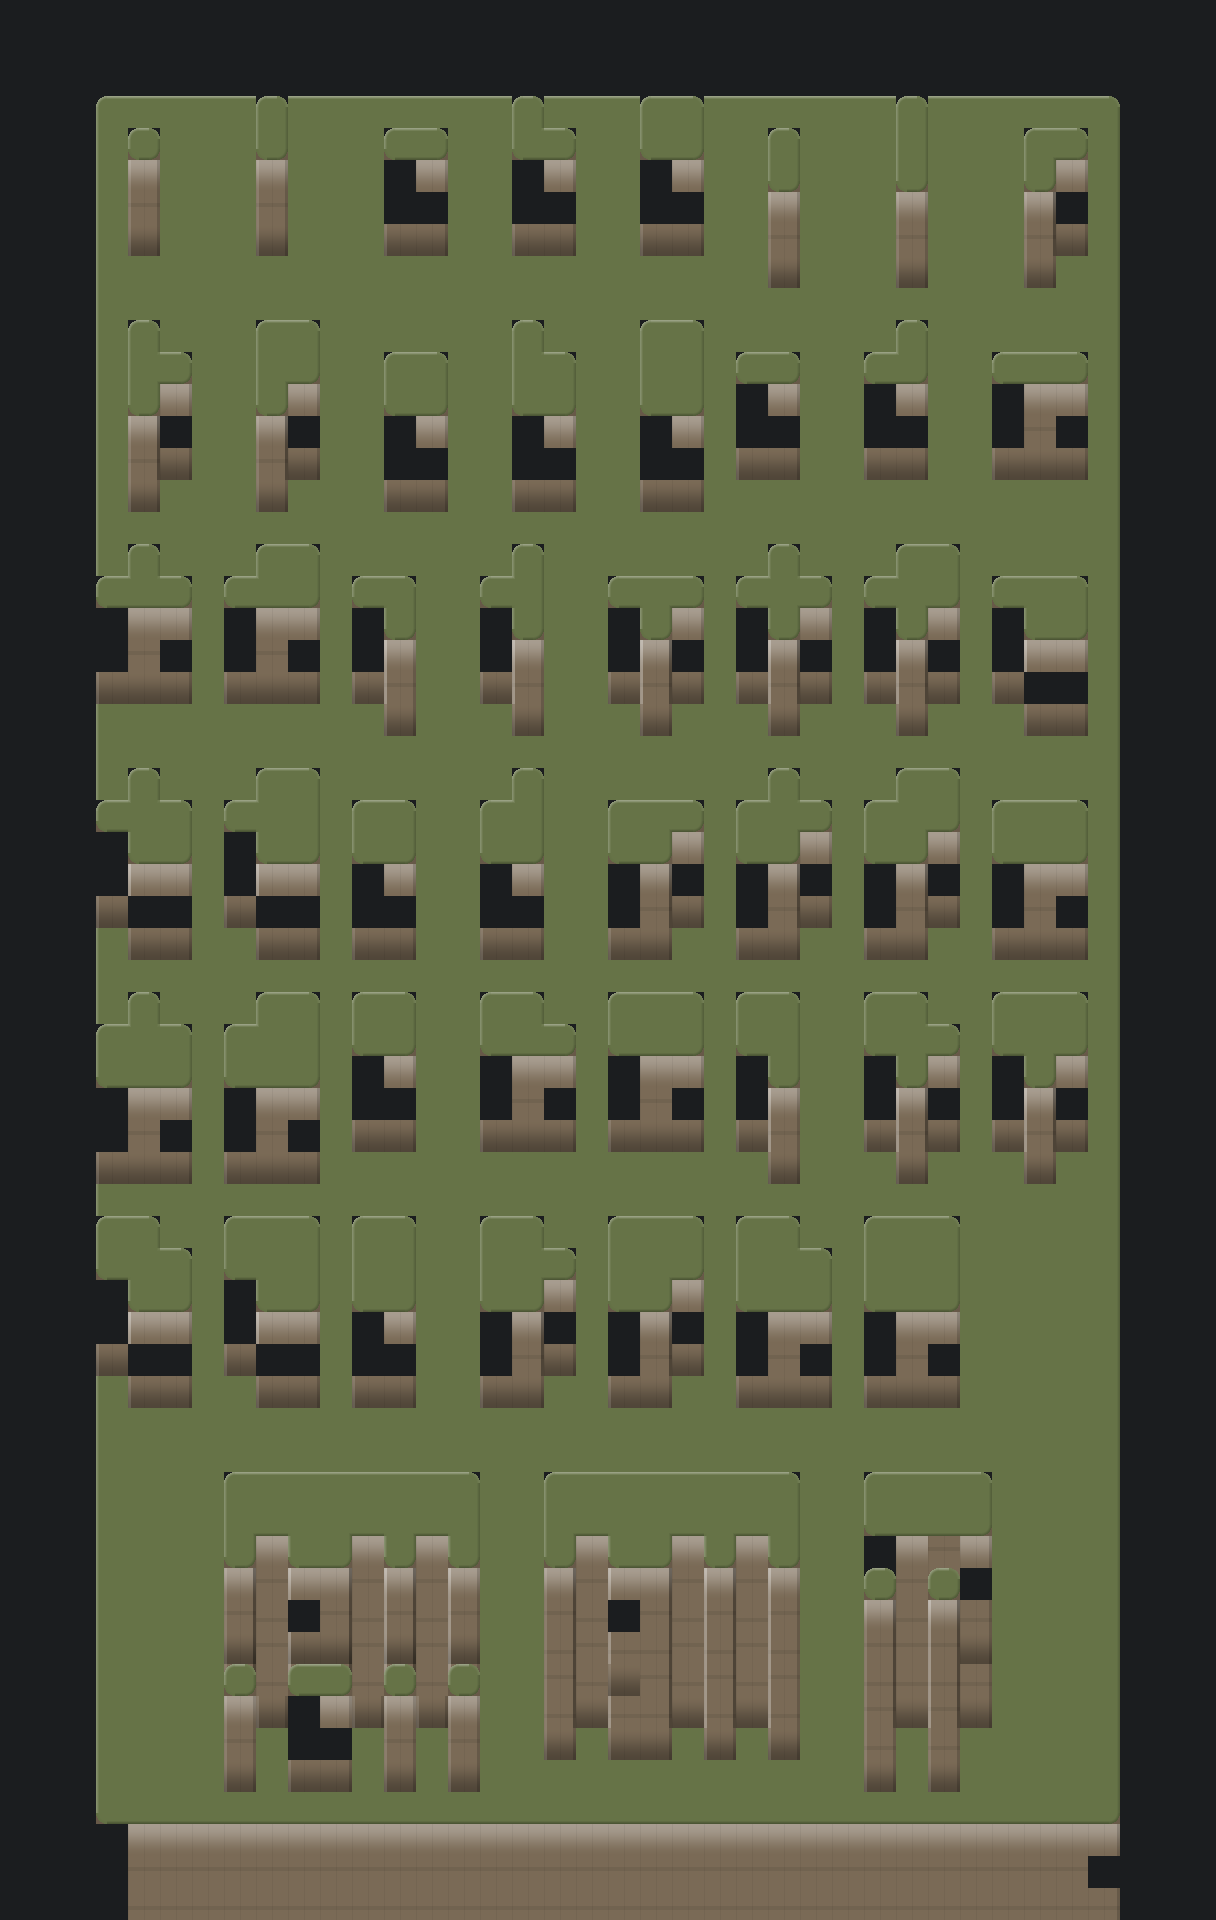
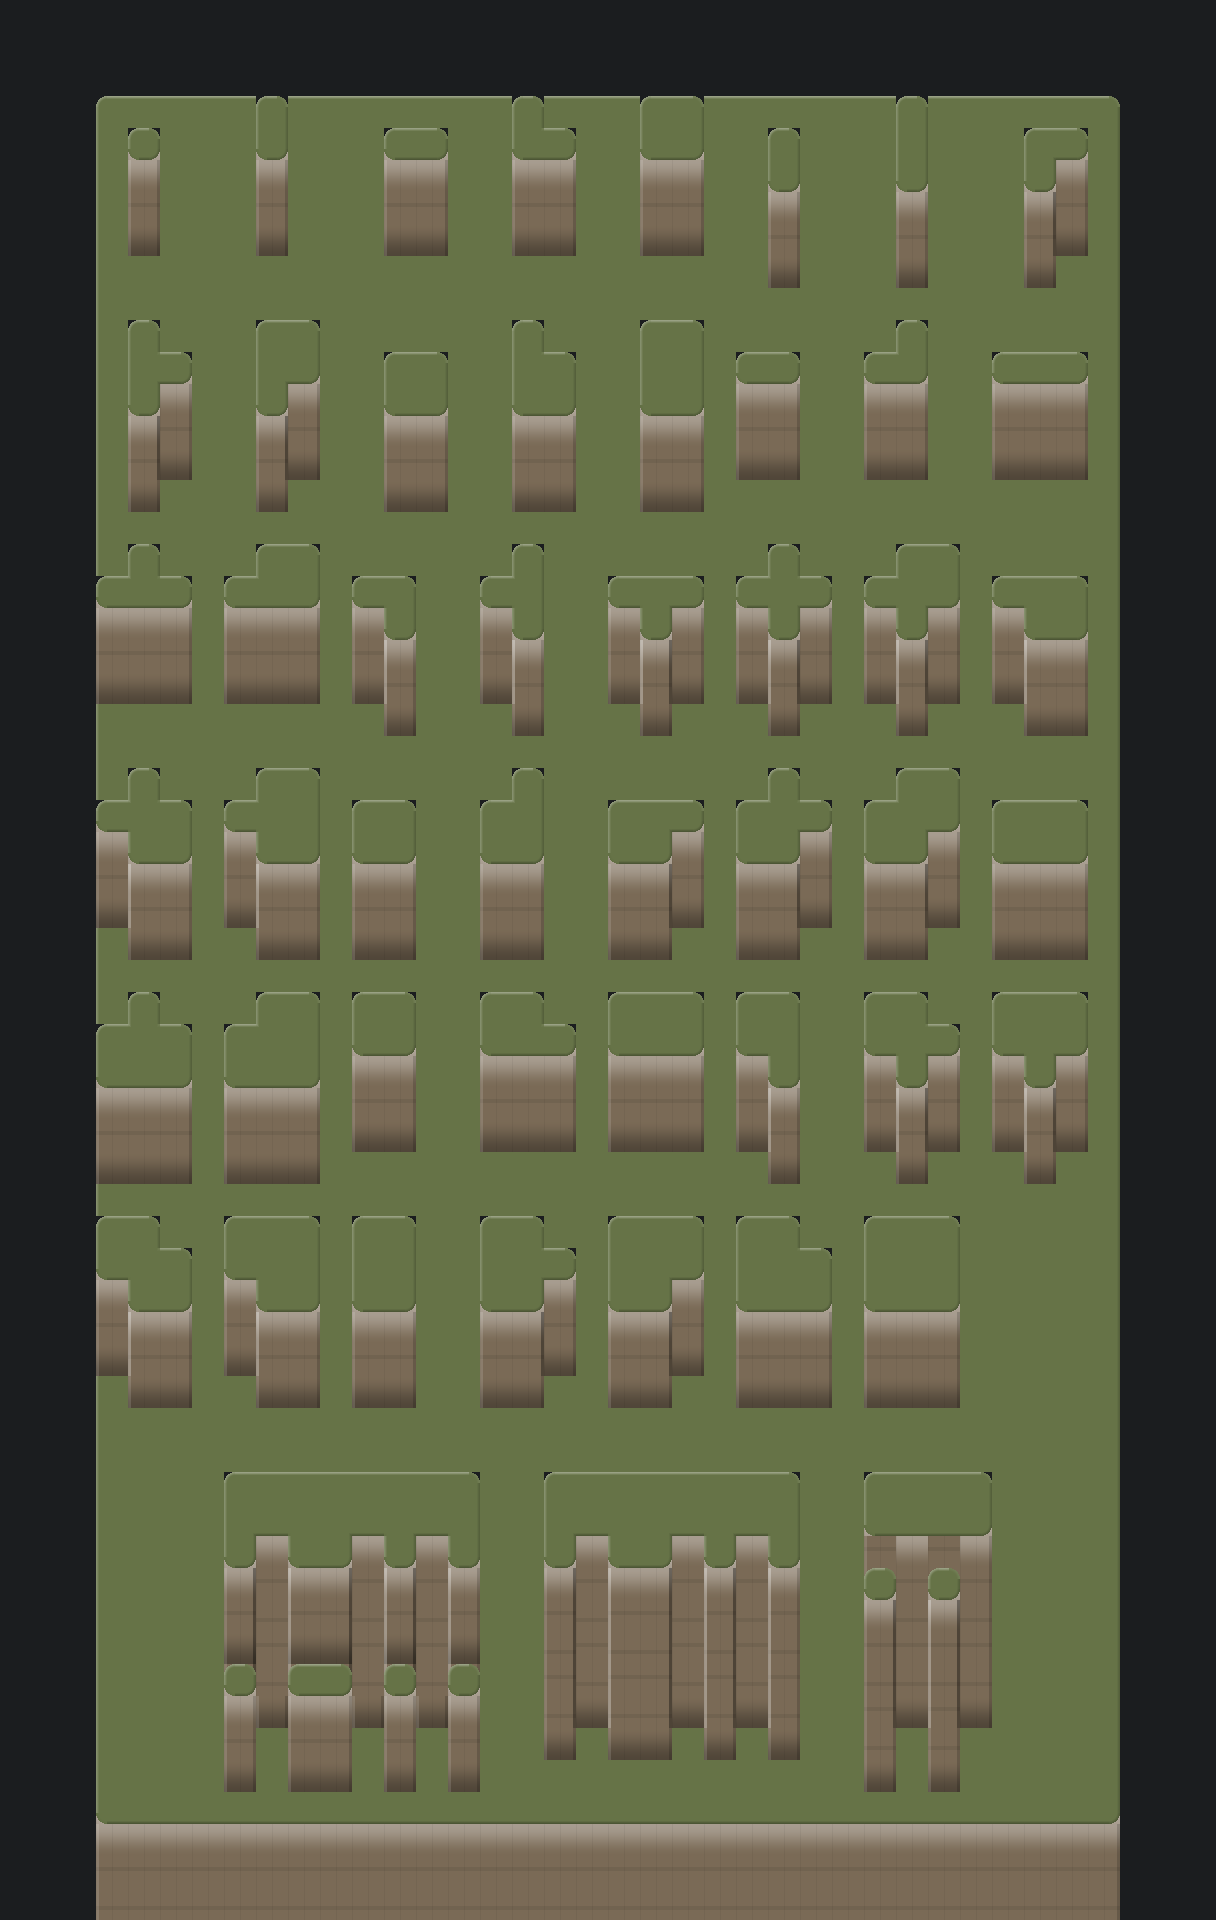
L'epaule prolonge le chapiteau, elle ne le chapeaute plus
Question artistique posee par l'utilisateur, et il avait raison : le
chanfrein d'aplat -- « volontairement distinct du corps » -- se lisait
comme une encoche sombre coincee entre l'herbe et le chapiteau eclaire,
pas comme de la roche qui tourne. L'epaule est desormais le HAUT DU
CHAPITEAU etire dans le coin : meme teinte exactement a la frontiere,
continuite verticale avec la rangee d'en dessous, un peu plus de jour en
montant -- l'arete de la roche qui tourne vers le ciel -- et la meme
striure, calee sur les memes colonnes, pour que le grain de la face
traverse le coin sans couture.

Ce qui ne peut pas se prolonger : les bandes de flanc. Le pan de la robe
d'en dessous n'est pas constant vu de la tuile de surface, et on ne
peint dans la tuile que ce qui est constant -- c'est la regle meme de
l'epaule. Le leger ressaut qui peut en rester au pied du coin est le
prix, et il est petit.

Le fil de fer ne bouge pas : il etait deja continu, la roche du trait.
La constante SHOULDER disparait -- l'epaule se calcule, elle n'est plus
un aplat.

Version 6.0.1, correctif de dessin. Illustration, planches d'essai et
scene regenerees. Commit volontairement restreint a ces fichiers : une
autre session travaille en parallele sur core/, ui/ et tests/.

430 verifications, 0 echec.

Claude-Session: https://claude.ai/code/session_018tvN4TQBR3sh7MsSTnFB1b

diff --git a/CLAUDE.md b/CLAUDE.md
@@ -979,14 +979,23 @@ Chaque entrée note le choix et sa raison, pour ne pas le rejouer plus tard.
   `level_at` — or **une case de robe EST une case de plaine sur la carte** : une falaise ne
   se voyait donc jamais comme « du haut ». Elle se dresse pourtant au-dessus du sol.
 
-- **L'épaule : le coin de roche sous la lèvre sud.** Les coins sortants sont découpés, et
-  sous un bord sud il y a **toujours** une falaise — la case montrait donc le fond à travers
-  la roche, dans le petit angle entre l'arrondi et le haut de la face. On le remplit d'un
-  aplat de pierre, volontairement distinct du corps juste en dessous : c'est le chanfrein du
-  rocher, pas la face.
+- **L'épaule : le coin de roche sous la lèvre sud — LA FALAISE QUI CONTINUE.** Les coins
+  sortants sont découpés, et sous un bord sud il y a **toujours** une falaise — la case
+  montrait donc le fond à travers la roche, dans le petit angle entre l'arrondi et le haut
+  de la face.
 
-  ⚠ **Et celui-là est légitime là où les ombres portées ne l'étaient pas** : il vit **dans**
-  la tuile de surface, donc une tuile exportée peut le porter.
+  ⚠ **Et l'épaule est légitime là où les ombres portées ne l'étaient pas** : il y a toujours
+  une falaise dessous, donc c'est constant, donc ça vit **dans** la tuile de surface et une
+  tuile exportée peut le porter. C'est le critère, et le nord ne le passe pas.
+
+  ⚠ **ELLE PROLONGE LE CHAPITEAU, ELLE NE LE CHAPEAUTE PLUS.** Première version : un aplat
+  de pierre « volontairement distinct du corps », le chanfrein du rocher. L'utilisateur l'a
+  jugé sur l'écran : une encoche sombre coincée entre l'herbe et le chapiteau éclairé, pas
+  de la roche qui tourne. L'épaule est désormais le **haut du chapiteau étiré dans le
+  coin** — même teinte exactement à la frontière, un peu plus de jour en montant, et la
+  même striure calée sur les mêmes colonnes, pour que le grain de la face traverse.
+  Ce qui ne peut pas se prolonger : les **bandes de flanc** — le pan d'en dessous n'est pas
+  constant vu de la tuile de surface, et on ne peint dans la tuile que ce qui est constant.
 
 - **LA PLAINE NE SE DESSINE PAS. Le logiciel n'a aucun fond.** Elle ne nous appartient pas :
   dans le jeu, le sol sous les plateaux sera **un étage plat du même tileset**, posé par le
@@ -1919,11 +1928,12 @@ Chaque entrée note le choix et sa raison, pour ne pas le rejouer plus tard.
   la roche et l'autre un trou au meme endroit, l'un des deux se trompe, et le guide perd le
   droit de dire qu'il ne peut pas mentir sur ce qu'il contient.
 
-  Le choix de la couleur suit le style plutot que de le contredire : en peint, l'epaule est
-  le **chanfrein du rocher**, volontairement distinct du corps. En fil de fer, c'est
-  `WIRE_WALL` — **la roche du trait, exactement celle des tuiles de robe** — donc l'epaule y
-  est *continue* avec la face juste en dessous. Un aplat de pierre aurait contredit un style
-  fait de traits ; le noir de la roche y est deja le vocabulaire.
+  Le choix de la couleur suit le style plutot que de le contredire, et les deux styles
+  disent desormais la meme chose : l'epaule est **la face qui continue**. En peint, le haut
+  du chapiteau etire dans le coin (le chanfrein d'aplat des debuts a ete juge et remplace —
+  voir la fiche de l'epaule). En fil de fer, `WIRE_WALL` — **la roche du trait, exactement
+  celle des tuiles de robe** — donc l'epaule y etait deja *continue* avec la face juste en
+  dessous.
 
   Asserte desormais dans les **trois** styles.
 
@@ -2058,9 +2068,10 @@ Chaque entrée note le choix et sa raison, pour ne pas le rejouer plus tard.
 Elle vit dans `project.godot` (`application/config/version`) et **nulle part ailleurs** :
 le bandeau de l'éditeur la lit là. Deux endroits finiraient toujours par se contredire.
 
-À **6.0.0** : la POSE DERRIERE ferme l'angle noir -- le manifeste passe en v5 et la v4
-est refusee, ce qui perime les exports anterieurs : majeure. Autour, tout ce que la 5.10
-portait : noyau prouve sur les deux familles, guides complets, l'editeur qui peint,
+À **6.0.1** : l'epaule prolonge le chapiteau au lieu de le chapeauter -- correctif de
+dessin, juge a l'ecran par l'utilisateur. En 6.0.0, la POSE DERRIERE ferme l'angle noir --
+le manifeste passe en v5 et la v4 est refusee, ce qui perime les exports anterieurs :
+majeure. Autour, tout ce que la 5.10 portait : noyau prouve sur les deux familles, guides complets, l'editeur qui peint,
 l'export refuse-incomplet, le plugin AbsoluPaint qui pose le monde dans Godot, et le mode
 d'emploi a trois niveaux.
 
